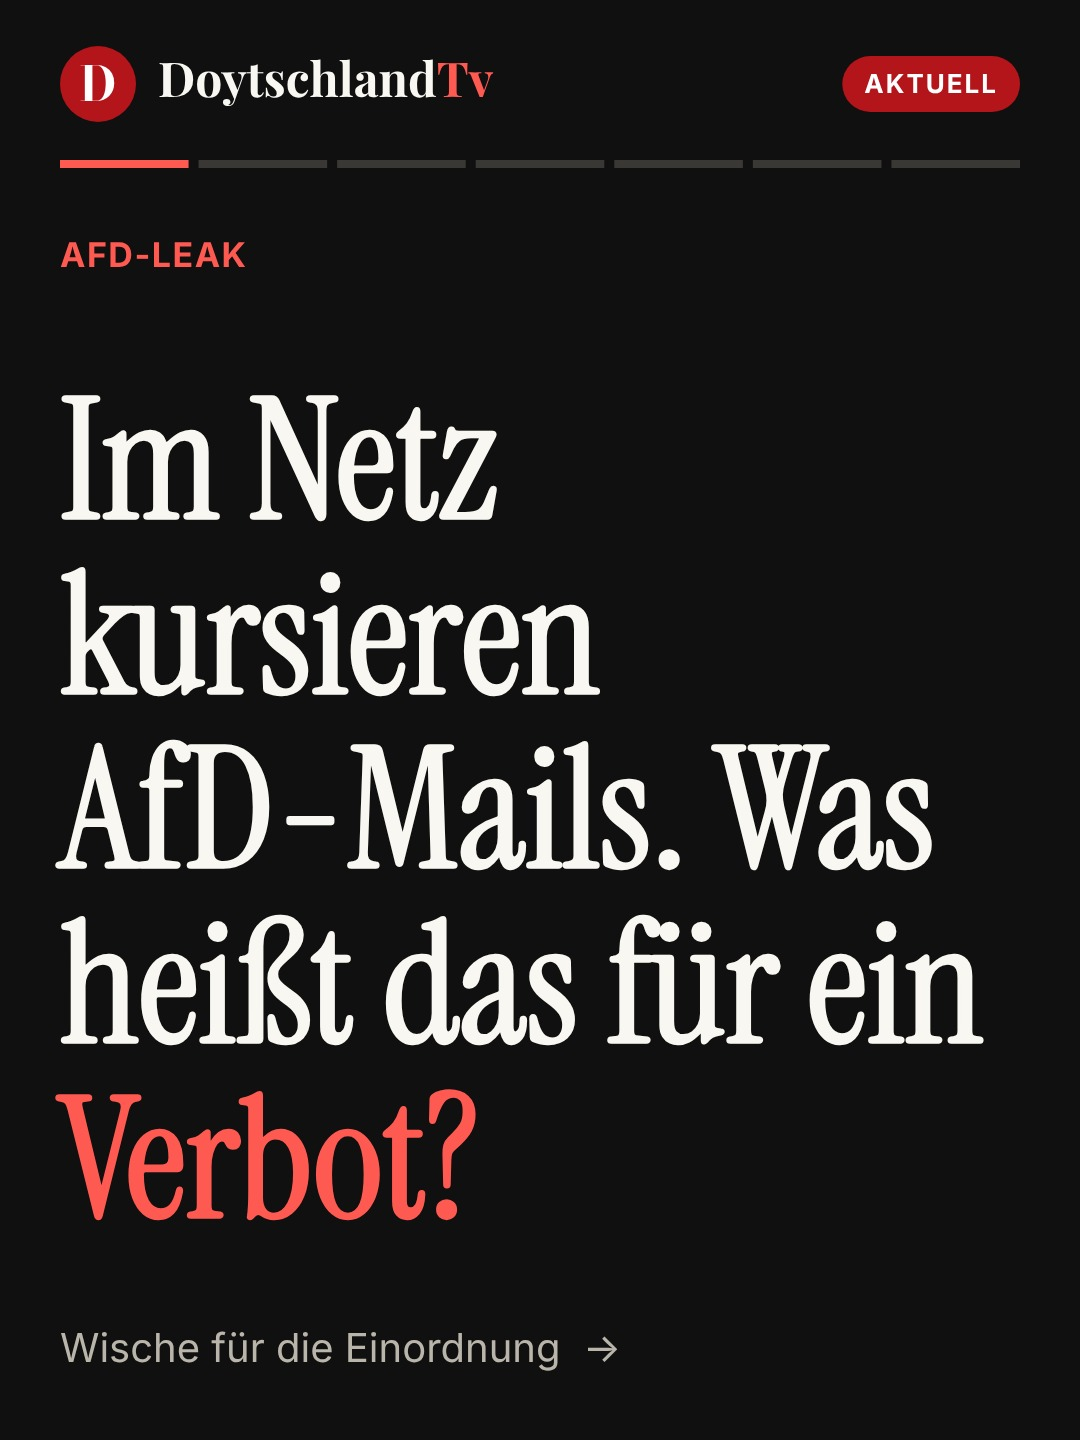
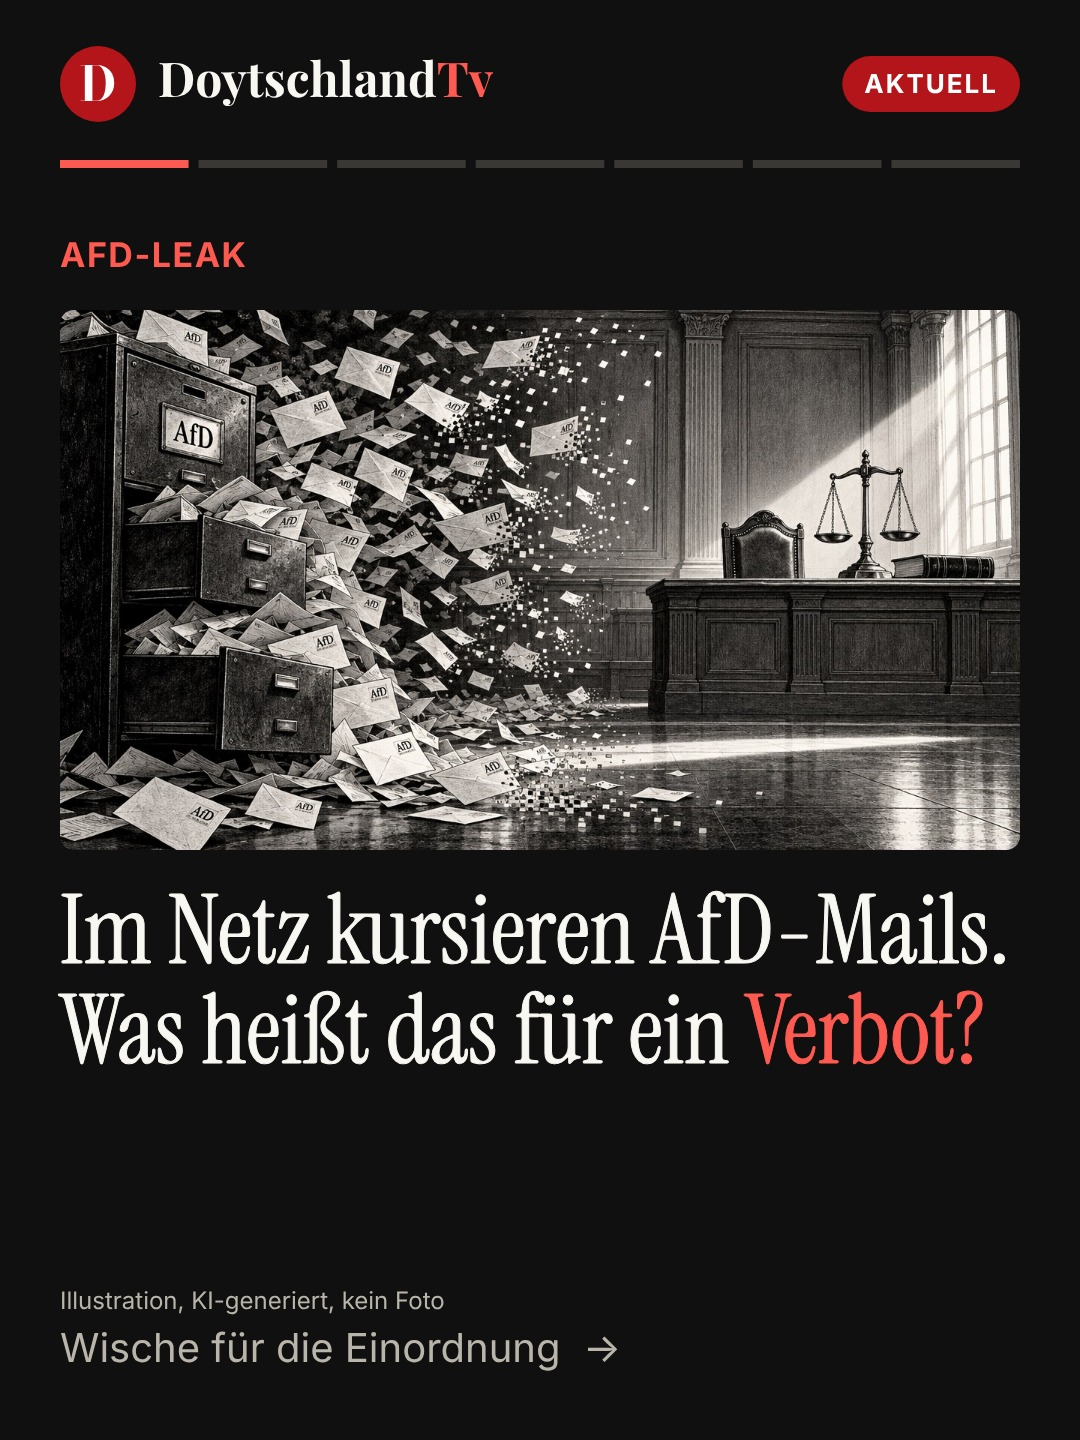
AfD-Leak: Titelbild auf Hook-Folie und Story
Claude-Session: https://claude.ai/code/session_01HADCkE2LZJHKQCUdz9XwMJ

diff --git a/beitrag/2026-10-22-afd-mails-im-netz-was-kursiert-was-belegt-ist-und-was-ein-verbot.html b/beitrag/2026-10-22-afd-mails-im-netz-was-kursiert-was-belegt-ist-und-was-ein-verbot.html
@@ -5,10 +5,10 @@
 <link rel="canonical" href="https://doytschtv.de/beitrag/2026-10-22-afd-mails-im-netz-was-kursiert-was-belegt-ist-und-was-ein-verbot.html">
 <meta name="robots" content="index,follow,max-image-preview:large">
 <meta property="og:type" content="article"><meta property="og:site_name" content="DoytschlandTv"><meta property="og:locale" content="de_DE">
-<meta property="og:title" content="AfD-Mails im Netz: Was kursiert, was belegt ist und was ein Verbot braucht"><meta property="og:description" content="Am 19. Oktober tauchten rund 421.000 Mails (281 GB) auf einer anonymen Website auf. Die AfD bestätigte am 20. Oktober einen Hackerangriff auf einen…"><meta property="og:url" content="https://doytschtv.de/beitrag/2026-10-22-afd-mails-im-netz-was-kursiert-was-belegt-ist-und-was-ein-verbot.html"><meta property="og:image" content="https://doytschtv.de/og-image.png">
-<meta name="twitter:card" content="summary_large_image"><meta name="twitter:title" content="AfD-Mails im Netz: Was kursiert, was belegt ist und was ein Verbot braucht"><meta name="twitter:description" content="Am 19. Oktober tauchten rund 421.000 Mails (281 GB) auf einer anonymen Website auf. Die AfD bestätigte am 20. Oktober einen Hackerangriff auf einen…"><meta name="twitter:image" content="https://doytschtv.de/og-image.png">
+<meta property="og:title" content="AfD-Mails im Netz: Was kursiert, was belegt ist und was ein Verbot braucht"><meta property="og:description" content="Am 19. Oktober tauchten rund 421.000 Mails (281 GB) auf einer anonymen Website auf. Die AfD bestätigte am 20. Oktober einen Hackerangriff auf einen…"><meta property="og:url" content="https://doytschtv.de/beitrag/2026-10-22-afd-mails-im-netz-was-kursiert-was-belegt-ist-und-was-ein-verbot.html"><meta property="og:image" content="https://doytschtv.de/titel-afd-leak.jpg">
+<meta name="twitter:card" content="summary_large_image"><meta name="twitter:title" content="AfD-Mails im Netz: Was kursiert, was belegt ist und was ein Verbot braucht"><meta name="twitter:description" content="Am 19. Oktober tauchten rund 421.000 Mails (281 GB) auf einer anonymen Website auf. Die AfD bestätigte am 20. Oktober einen Hackerangriff auf einen…"><meta name="twitter:image" content="https://doytschtv.de/titel-afd-leak.jpg">
 <meta name="theme-color" content="#0b0b10"><link rel="apple-touch-icon" href="/favicon.png">
-<script type="application/ld+json">{"@context": "https://schema.org", "@type": "NewsArticle", "headline": "AfD-Mails im Netz: Was kursiert, was belegt ist und was ein Verbot braucht", "description": "Am 19. Oktober tauchten rund 421.000 Mails (281 GB) auf einer anonymen Website auf. Die AfD bestätigte am 20. Oktober einen Hackerangriff auf einen…", "datePublished": "2026-10-22", "dateModified": "2026-10-22", "inLanguage": "de", "mainEntityOfPage": "https://doytschtv.de/beitrag/2026-10-22-afd-mails-im-netz-was-kursiert-was-belegt-ist-und-was-ein-verbot.html", "image": ["https://doytschtv.de/og-image.png"], "author": {"@type": "Organization", "name": "DoytschlandTv", "url": "https://doytschtv.de/"}, "publisher": {"@type": "Organization", "name": "DoytschlandTv", "logo": {"@type": "ImageObject", "url": "https://doytschtv.de/favicon.png"}}, "articleSection": "Nachrichten", "keywords": ["doytschlandtv", "aktuell", "afd", "afdverbot", "rechtsextremismus", "einordnung"]}</script>
+<script type="application/ld+json">{"@context": "https://schema.org", "@type": "NewsArticle", "headline": "AfD-Mails im Netz: Was kursiert, was belegt ist und was ein Verbot braucht", "description": "Am 19. Oktober tauchten rund 421.000 Mails (281 GB) auf einer anonymen Website auf. Die AfD bestätigte am 20. Oktober einen Hackerangriff auf einen…", "datePublished": "2026-10-22", "dateModified": "2026-10-22", "inLanguage": "de", "mainEntityOfPage": "https://doytschtv.de/beitrag/2026-10-22-afd-mails-im-netz-was-kursiert-was-belegt-ist-und-was-ein-verbot.html", "image": ["https://doytschtv.de/titel-afd-leak.jpg"], "author": {"@type": "Organization", "name": "DoytschlandTv", "url": "https://doytschtv.de/"}, "publisher": {"@type": "Organization", "name": "DoytschlandTv", "logo": {"@type": "ImageObject", "url": "https://doytschtv.de/favicon.png"}}, "articleSection": "Nachrichten", "keywords": ["doytschlandtv", "aktuell", "afd", "afdverbot", "rechtsextremismus", "einordnung"]}</script>
 <link rel="stylesheet" href="/fonts.css"><link rel="stylesheet" href="/styles.css"><link rel="stylesheet" href="/briefing.css">
 <style>:root{color-scheme:light}body{margin:0}</style><link rel="icon" type="image/png" href="/favicon.png"></head><body>
-<header class="nav"><div class="wrap"><a class="brand" href="/index.html"><span class="mk" aria-hidden="true">D</span><img class="lg-l" src="/logo.png" alt="DoytschlandTv" width="136" height="25"><img class="lg-d" src="/logo-dark.png" alt="DoytschlandTv" width="136" height="25"></a><ul><li><a href="/briefing.html">Briefing</a></li><li><a href="/nachrichten.html" class=on>Nachrichten</a></li><li><a href="/dossiers.html">Dossiers</a></li><li><a href="/meinungen.html">Meinungen</a></li><li><a href="/erklaert.html">Erklärt</a></li><li><a href="/ueber-uns.html">Über uns</a></li></ul><span class="nav-so"><a href="https://www.instagram.com/doytschlandtv/" target="_blank" rel="noopener" aria-label="DoytschlandTv auf Instagram"><svg viewBox="0 0 24 24" fill="none" stroke="currentColor" stroke-width="2" stroke-linecap="round" aria-hidden="true"><rect x="3" y="3" width="18" height="18" rx="5"/><circle cx="12" cy="12" r="4.2"/><circle cx="17.3" cy="6.7" r=".6" fill="currentColor"/></svg></a><a href="https://www.tiktok.com/@doytschlandtv" target="_blank" rel="noopener" aria-label="DoytschlandTv auf TikTok"><svg viewBox="0 0 24 24" fill="currentColor" aria-hidden="true"><path d="M16.6 5.8A4.3 4.3 0 0 1 15.5 3h-3.1v12.4a2.6 2.6 0 1 1-1.8-2.5V9.7a5.7 5.7 0 1 0 4.9 5.7V9a7.3 7.3 0 0 0 4.3 1.4V7.3a4.3 4.3 0 0 1-3.2-1.5z"/></svg></a><a href="https://www.youtube.com/@DoytschlandTv" target="_blank" rel="noopener" aria-label="DoytschlandTv auf YouTube"><svg viewBox="0 0 24 24" fill="currentColor" aria-hidden="true"><path d="M21.6 7.2a2.5 2.5 0 0 0-1.8-1.8C18.3 5 12 5 12 5s-6.3 0-7.8.4A2.5 2.5 0 0 0 2.4 7.2C2 8.7 2 12 2 12s0 3.3.4 4.8a2.5 2.5 0 0 0 1.8 1.8C5.7 19 12 19 12 19s6.3 0 7.8-.4a2.5 2.5 0 0 0 1.8-1.8C22 15.3 22 12 22 12s0-3.3-.4-4.8zM10 15V9l5.2 3L10 15z"/></svg></a></span></div></header><main><div class="wrap"><article class="kol"><p class="b-eyebrow">Nachrichten · AfD-Leak</p><h1 class="mk-h1">AfD-Mails im Netz: Was kursiert, was belegt ist und was ein Verbot braucht</h1><p class="mk-meta">22. Oktober 2026</p><h2>Was passiert ist</h2><p><strong>421.000 Mails, Echtheit ungeklärt</strong></p><p>Am 19. Oktober tauchten rund 421.000 Mails (281 GB) auf einer anonymen Website auf. Die AfD bestätigte am 20. Oktober einen Hackerangriff auf einen Dienstleister im September. Die Echtheit ist nicht unabhängig bestätigt.</p><h2>Was kursiert, nicht geprüft: Ausländerfeindliche Zitate im Netz</h2><ul><li><strong>Beschimpfung:</strong> Eine Nachricht soll lauten: „Merkel verrecke und Mohammedaner verrecke“.</li><li><strong>Begriffe:</strong> „Muselmanen“ und „dreckiges Monster Merkel“ stehen laut Übersicht in Nachrichten ohne genannten Verfasser.</li><li><strong>Verfasser offen:</strong> Laut t-online stammt viel von Anhängern, manche Mails gingen an mehrere Parteien.</li></ul><h2>Warum ein Verbot gefordert wird</h2><p><strong>Das Argument der Befürworter</strong></p><p>Das GFF-Gutachten sieht Verstöße gegen Menschenwürde und Demokratieprinzip, gestützt auf über 2.500 Belege. Ob die Mails echt und der Partei zuzurechnen sind, ist offen. Viele auffällige Funde sind alt oder schon bekannt.</p><h2>Behauptung und Fakt</h2><p><strong>Das wird gefordert:</strong> Die AfD gehöre verboten, weil sie Menschen wegen Herkunft oder Religion abwerte.</p><p><strong>Das verlangt das Gericht:</strong> Laut BVerfG (NPD, 2017) braucht es planvolles Handeln der Partei. Einzelne Äußerungen von Anhängern reichen grundsätzlich nicht.</p><h2>Unsere Meinung</h2><p>Ungeprüfte Zitate sind kein Beweis, und entscheiden wird ein Gericht, nicht das Netz. Wer Menschen wegen Herkunft oder Religion abwertet, stellt sich aber gegen das Grundgesetz. Das gehört geprüft, mit Beweisen.</p><p><em>Prüfe Quellen, bevor du teilst. Teile keine privaten Daten.</em></p><h2>Was meinst du?</h2><p><strong>Darf Material aus Hacks Grundlage eines Verbots sein?</strong></p><h2>Quellen</h2><ul><li>t-online, taz, ZDFheute, 19./20.10.2026</li><li>heute.at nach Übersicht der Hacker-Website; t-online, 20.10.2026</li><li>CORRECTIV, Stand 14.4.2026; LTO, 21.10.2026</li><li>Verfassungsblog, 8.5.2025; LTO, 4.12.2024</li></ul><p><a href="/nachrichten.html">Alle Karussells ansehen ›</a></p><p class="mk-meta">Fakten sind mit Quellen belegt, Meinung ist als „Unsere Meinung“ gekennzeichnet.</p></article></div></main><footer><div class="wrap"><span>© DoytschlandTv</span><span><a href="/impressum.html">Impressum</a> · <a href="/datenschutz.html">Datenschutz</a></span></div></footer></body></html>
+<header class="nav"><div class="wrap"><a class="brand" href="/index.html"><span class="mk" aria-hidden="true">D</span><img class="lg-l" src="/logo.png" alt="DoytschlandTv" width="136" height="25"><img class="lg-d" src="/logo-dark.png" alt="DoytschlandTv" width="136" height="25"></a><ul><li><a href="/briefing.html">Briefing</a></li><li><a href="/nachrichten.html" class=on>Nachrichten</a></li><li><a href="/dossiers.html">Dossiers</a></li><li><a href="/meinungen.html">Meinungen</a></li><li><a href="/erklaert.html">Erklärt</a></li><li><a href="/ueber-uns.html">Über uns</a></li></ul><span class="nav-so"><a href="https://www.instagram.com/doytschlandtv/" target="_blank" rel="noopener" aria-label="DoytschlandTv auf Instagram"><svg viewBox="0 0 24 24" fill="none" stroke="currentColor" stroke-width="2" stroke-linecap="round" aria-hidden="true"><rect x="3" y="3" width="18" height="18" rx="5"/><circle cx="12" cy="12" r="4.2"/><circle cx="17.3" cy="6.7" r=".6" fill="currentColor"/></svg></a><a href="https://www.tiktok.com/@doytschlandtv" target="_blank" rel="noopener" aria-label="DoytschlandTv auf TikTok"><svg viewBox="0 0 24 24" fill="currentColor" aria-hidden="true"><path d="M16.6 5.8A4.3 4.3 0 0 1 15.5 3h-3.1v12.4a2.6 2.6 0 1 1-1.8-2.5V9.7a5.7 5.7 0 1 0 4.9 5.7V9a7.3 7.3 0 0 0 4.3 1.4V7.3a4.3 4.3 0 0 1-3.2-1.5z"/></svg></a><a href="https://www.youtube.com/@DoytschlandTv" target="_blank" rel="noopener" aria-label="DoytschlandTv auf YouTube"><svg viewBox="0 0 24 24" fill="currentColor" aria-hidden="true"><path d="M21.6 7.2a2.5 2.5 0 0 0-1.8-1.8C18.3 5 12 5 12 5s-6.3 0-7.8.4A2.5 2.5 0 0 0 2.4 7.2C2 8.7 2 12 2 12s0 3.3.4 4.8a2.5 2.5 0 0 0 1.8 1.8C5.7 19 12 19 12 19s6.3 0 7.8-.4a2.5 2.5 0 0 0 1.8-1.8C22 15.3 22 12 22 12s0-3.3-.4-4.8zM10 15V9l5.2 3L10 15z"/></svg></a></span></div></header><main><div class="wrap"><article class="kol"><p class="b-eyebrow">Nachrichten · AfD-Leak</p><h1 class="mk-h1">AfD-Mails im Netz: Was kursiert, was belegt ist und was ein Verbot braucht</h1><p class="mk-meta">22. Oktober 2026</p><figure style="margin:1rem 0"><img src="/titel-afd-leak.jpg" alt="AfD-Mails im Netz: Was kursiert, was belegt ist und was ein Verbot braucht" style="width:100%;height:auto;border-radius:1rem" loading="lazy"><figcaption class="mk-meta">Illustration, KI-generiert, kein Foto</figcaption></figure><h2>Was passiert ist</h2><p><strong>421.000 Mails, Echtheit ungeklärt</strong></p><p>Am 19. Oktober tauchten rund 421.000 Mails (281 GB) auf einer anonymen Website auf. Die AfD bestätigte am 20. Oktober einen Hackerangriff auf einen Dienstleister im September. Die Echtheit ist nicht unabhängig bestätigt.</p><h2>Was kursiert, nicht geprüft: Ausländerfeindliche Zitate im Netz</h2><ul><li><strong>Beschimpfung:</strong> Eine Nachricht soll lauten: „Merkel verrecke und Mohammedaner verrecke“.</li><li><strong>Begriffe:</strong> „Muselmanen“ und „dreckiges Monster Merkel“ stehen laut Übersicht in Nachrichten ohne genannten Verfasser.</li><li><strong>Verfasser offen:</strong> Laut t-online stammt viel von Anhängern, manche Mails gingen an mehrere Parteien.</li></ul><h2>Warum ein Verbot gefordert wird</h2><p><strong>Das Argument der Befürworter</strong></p><p>Das GFF-Gutachten sieht Verstöße gegen Menschenwürde und Demokratieprinzip, gestützt auf über 2.500 Belege. Ob die Mails echt und der Partei zuzurechnen sind, ist offen. Viele auffällige Funde sind alt oder schon bekannt.</p><h2>Behauptung und Fakt</h2><p><strong>Das wird gefordert:</strong> Die AfD gehöre verboten, weil sie Menschen wegen Herkunft oder Religion abwerte.</p><p><strong>Das verlangt das Gericht:</strong> Laut BVerfG (NPD, 2017) braucht es planvolles Handeln der Partei. Einzelne Äußerungen von Anhängern reichen grundsätzlich nicht.</p><h2>Unsere Meinung</h2><p>Ungeprüfte Zitate sind kein Beweis, und entscheiden wird ein Gericht, nicht das Netz. Wer Menschen wegen Herkunft oder Religion abwertet, stellt sich aber gegen das Grundgesetz. Das gehört geprüft, mit Beweisen.</p><p><em>Prüfe Quellen, bevor du teilst. Teile keine privaten Daten.</em></p><h2>Was meinst du?</h2><p><strong>Darf Material aus Hacks Grundlage eines Verbots sein?</strong></p><h2>Quellen</h2><ul><li>t-online, taz, ZDFheute, 19./20.10.2026</li><li>heute.at nach Übersicht der Hacker-Website; t-online, 20.10.2026</li><li>CORRECTIV, Stand 14.4.2026; LTO, 21.10.2026</li><li>Verfassungsblog, 8.5.2025; LTO, 4.12.2024</li></ul><p><a href="/nachrichten.html">Alle Karussells ansehen ›</a></p><p class="mk-meta">Fakten sind mit Quellen belegt, Meinung ist als „Unsere Meinung“ gekennzeichnet.</p></article></div></main><footer><div class="wrap"><span>© DoytschlandTv</span><span><a href="/impressum.html">Impressum</a> · <a href="/datenschutz.html">Datenschutz</a></span></div></footer></body></html>

diff --git a/index.html b/index.html
@@ -64,7 +64,7 @@
         <h2 id="heute-h">Zuletzt im Blick</h2>
         <p id="heute-datum">23. Oktober 2026</p>
       </div>
-      <div class="hc-wrap"><button class="hc-b" id="hc-prev" type="button" aria-label="Zurück">&lsaquo;</button><div class="hc-rail" id="heute-liste" tabindex="0" aria-label="Schlagzeilen, seitlich wischen"><!--heute--><a class="hc has-img" href="nachrichten.html#Morning%20Briefing%2C%20Freitag%2C%2023.%20Oktober%202026"><span class="hc-i"><img class="bg" src="titel-morning-briefing.jpg" alt="" loading="lazy" aria-hidden="true"><img class="fg" src="titel-morning-briefing.jpg" alt="" loading="lazy"></span><span class="hc-t"><span class="k">Nachrichten · Fr., 23.10.</span><strong>Morning Briefing, Freitag, 23. Oktober 2026</strong><small>Grafik, DoytschlandTv</small></span></a><a class="hc" href="nachrichten.html#AfD-Mails%20im%20Netz%3A%20Was%20kursiert%2C%20was%20belegt%20ist%20und%20was%20ein%20Verbot%20braucht"><span class="hc-t"><span class="k">Nachrichten · Do., 22.10.</span><strong>AfD-Mails im Netz: Was kursiert, was belegt ist und was ein Verbot braucht</strong></span></a><a class="hc has-img" href="nachrichten.html#Rechte%20Kampfsport-Clubs%3A%20Aus%20einem%20Dutzend%20werden%20rund%2020"><span class="hc-i"><img class="bg" src="titel-active-clubs.jpg" alt="" loading="lazy" aria-hidden="true"><img class="fg" src="titel-active-clubs.jpg" alt="" loading="lazy"></span><span class="hc-t"><span class="k">Nachrichten · Do., 22.10.</span><strong>Rechte Kampfsport-Clubs: Aus einem Dutzend werden rund 20</strong><small>Illustration, KI-generiert, kein Foto</small></span></a><a class="hc has-img" href="briefing.html#2026-10-23"><span class="hc-i"><img class="bg" src="titel-briefing.jpg" alt="" loading="lazy" aria-hidden="true"><img class="fg" src="titel-briefing.jpg" alt="" loading="lazy"></span><span class="hc-t"><span class="k">Morning Briefing</span><strong>Länder fordern Tempo bei der Stromsteuer und 3 weitere Themen</strong><small>Illustration, KI-generiert, kein Foto</small></span></a><a class="hc has-img" href="meinungen.html#2026-10-11"><span class="hc-i"><img class="bg" src="kolumne-christ.jpg" alt="" loading="lazy" aria-hidden="true"><img class="fg" src="kolumne-christ.jpg" alt="" loading="lazy"></span><span class="hc-t"><span class="k">Kolumne · Demokratie</span><strong>Selbstauskunft ist keine Kontrolle: Was der Fall Christ über Beratergremien zeigt</strong><small>Illustration, KI-generiert, kein Foto.</small></span></a><a class="hc" href="erklaert.html#schuldenbremse"><span class="hc-t"><span class="k">Erklärt</span><strong>Schuldenbremse und Sondervermögen</strong></span></a><!--/heute--></div><button class="hc-b nx" id="hc-next" type="button" aria-label="Weiter">&rsaquo;</button></div>
+      <div class="hc-wrap"><button class="hc-b" id="hc-prev" type="button" aria-label="Zurück">&lsaquo;</button><div class="hc-rail" id="heute-liste" tabindex="0" aria-label="Schlagzeilen, seitlich wischen"><!--heute--><a class="hc has-img" href="nachrichten.html#Morning%20Briefing%2C%20Freitag%2C%2023.%20Oktober%202026"><span class="hc-i"><img class="bg" src="titel-morning-briefing.jpg" alt="" loading="lazy" aria-hidden="true"><img class="fg" src="titel-morning-briefing.jpg" alt="" loading="lazy"></span><span class="hc-t"><span class="k">Nachrichten · Fr., 23.10.</span><strong>Morning Briefing, Freitag, 23. Oktober 2026</strong><small>Grafik, DoytschlandTv</small></span></a><a class="hc has-img" href="nachrichten.html#AfD-Mails%20im%20Netz%3A%20Was%20kursiert%2C%20was%20belegt%20ist%20und%20was%20ein%20Verbot%20braucht"><span class="hc-i"><img class="bg" src="titel-afd-leak.jpg" alt="" loading="lazy" aria-hidden="true"><img class="fg" src="titel-afd-leak.jpg" alt="" loading="lazy"></span><span class="hc-t"><span class="k">Nachrichten · Do., 22.10.</span><strong>AfD-Mails im Netz: Was kursiert, was belegt ist und was ein Verbot braucht</strong><small>Illustration, KI-generiert, kein Foto</small></span></a><a class="hc has-img" href="nachrichten.html#Rechte%20Kampfsport-Clubs%3A%20Aus%20einem%20Dutzend%20werden%20rund%2020"><span class="hc-i"><img class="bg" src="titel-active-clubs.jpg" alt="" loading="lazy" aria-hidden="true"><img class="fg" src="titel-active-clubs.jpg" alt="" loading="lazy"></span><span class="hc-t"><span class="k">Nachrichten · Do., 22.10.</span><strong>Rechte Kampfsport-Clubs: Aus einem Dutzend werden rund 20</strong><small>Illustration, KI-generiert, kein Foto</small></span></a><a class="hc has-img" href="briefing.html#2026-10-23"><span class="hc-i"><img class="bg" src="titel-briefing.jpg" alt="" loading="lazy" aria-hidden="true"><img class="fg" src="titel-briefing.jpg" alt="" loading="lazy"></span><span class="hc-t"><span class="k">Morning Briefing</span><strong>Länder fordern Tempo bei der Stromsteuer und 3 weitere Themen</strong><small>Illustration, KI-generiert, kein Foto</small></span></a><a class="hc has-img" href="meinungen.html#2026-10-11"><span class="hc-i"><img class="bg" src="kolumne-christ.jpg" alt="" loading="lazy" aria-hidden="true"><img class="fg" src="kolumne-christ.jpg" alt="" loading="lazy"></span><span class="hc-t"><span class="k">Kolumne · Demokratie</span><strong>Selbstauskunft ist keine Kontrolle: Was der Fall Christ über Beratergremien zeigt</strong><small>Illustration, KI-generiert, kein Foto.</small></span></a><a class="hc" href="erklaert.html#schuldenbremse"><span class="hc-t"><span class="k">Erklärt</span><strong>Schuldenbremse und Sondervermögen</strong></span></a><!--/heute--></div><button class="hc-b nx" id="hc-next" type="button" aria-label="Weiter">&rsaquo;</button></div>
     </div>
   </section>
 

diff --git a/briefings.js b/briefings.js
@@ -212,7 +212,11 @@ window.BRIEFINGS = [
       "kicker": "AfD-Leak",
       "titel": "Im Netz kursieren AfD-Mails. Was heißt das für ein Verbot?",
       "rot": "Verbot",
-      "bild": null
+      "bild": {
+       "url": "titel-afd-leak.jpg",
+       "fokus": 0.5,
+       "unter": "Illustration, KI-generiert, kein Foto"
+      }
      },
      {
       "typ": "fakten",
@@ -305,7 +309,11 @@ window.BRIEFINGS = [
     "text": "Zitate kursieren, die Echtheit ist offen. Über ein Verbot entscheidet ein Gericht. Argumente und Hürden im Karussell, Link in der Bio.",
     "quelle": "t-online, taz, LTO, 20./21.10.2026",
     "theme": "dark",
-    "bild": null
+    "bild": {
+     "url": "titel-afd-leak.jpg",
+     "fokus": 0.5,
+     "unter": "Illustration, KI-generiert, kein Foto"
+    }
    }
   ]
  },
